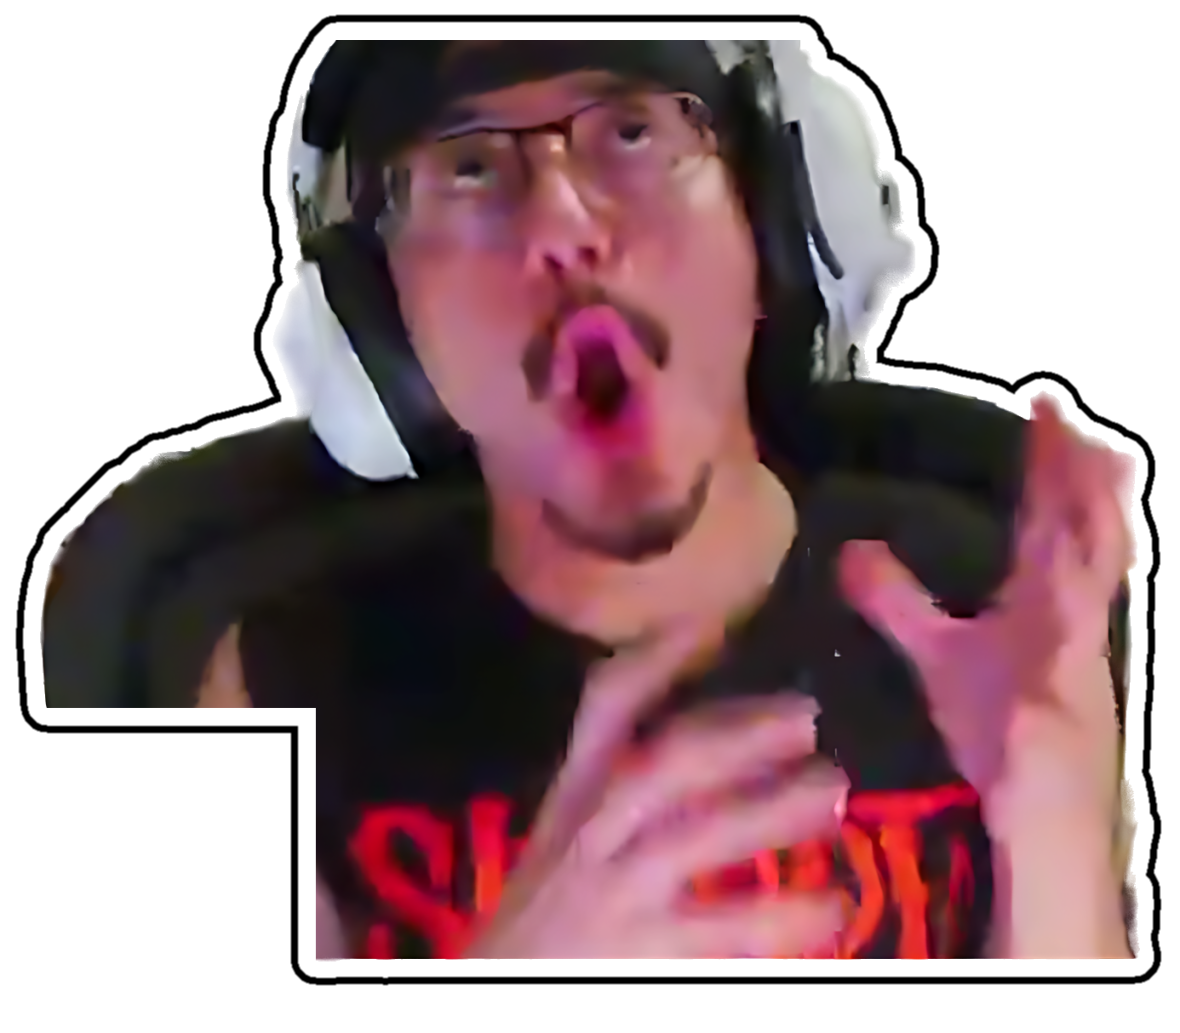
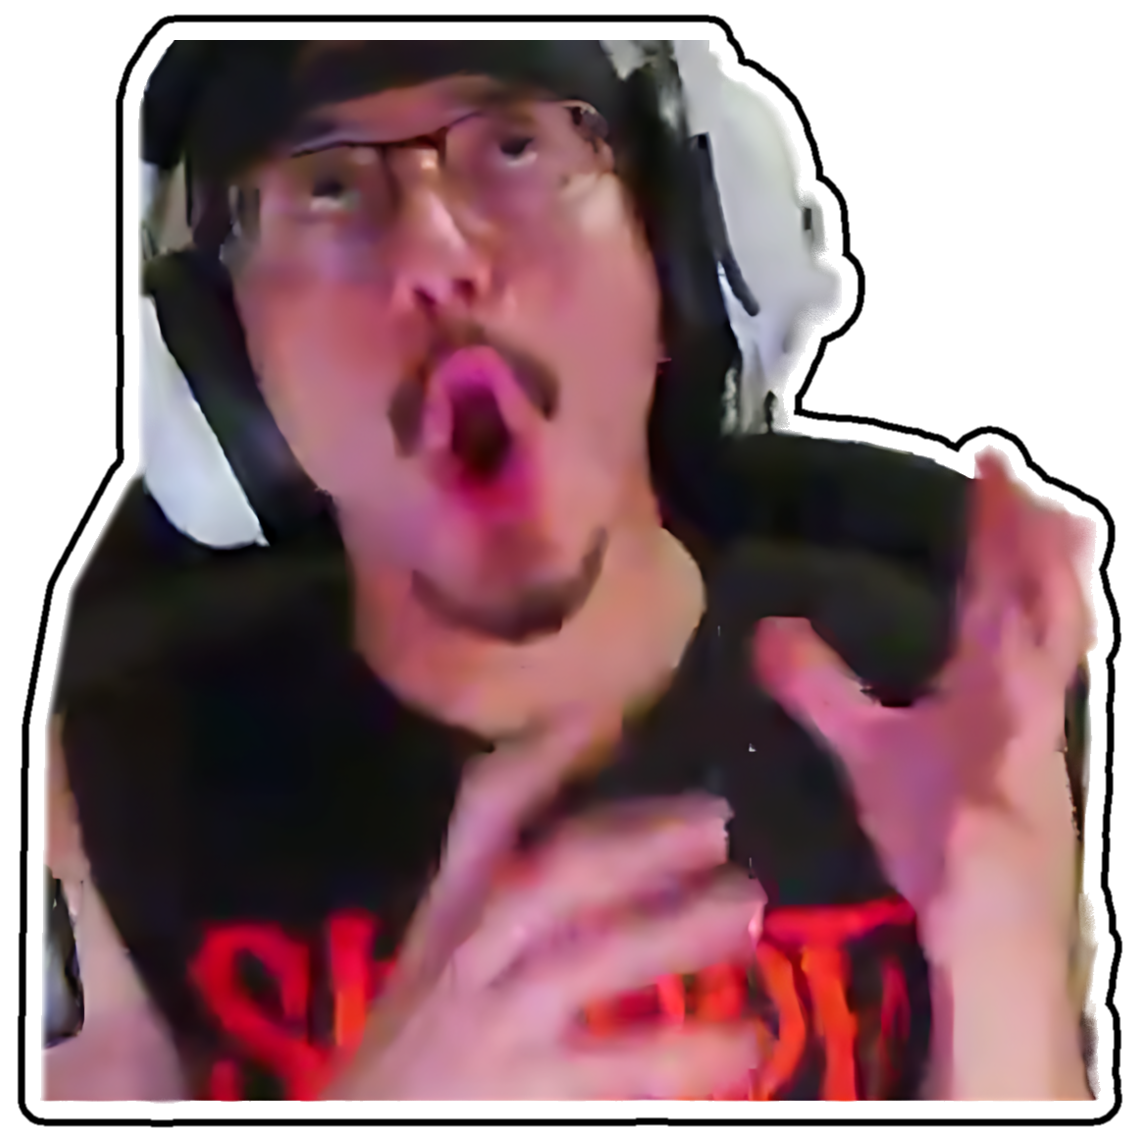
PUBG thumbnail: body-following cutout, TOP 10 up, centred name in pill
Claude-Session: https://claude.ai/code/session_01NSJvdmHsHoazKiuuGVQfMY

diff --git a/story/pubg_aaaa_thumb.html b/story/pubg_aaaa_thumb.html
@@ -49,10 +49,10 @@
 
   // ---- the scream: cut-out sticker bottom-left, whole head in frame, flat cut sits on the bottom edge
   { const mw = 720, mh = mw * me.height / me.width, off = document.createElement('canvas'); off.width = W; off.height = H; const o = off.getContext('2d');
-    o.save(); o.shadowColor = 'rgba(0,0,0,0.8)'; o.shadowBlur = 40; o.translate(-10, 1300); o.rotate(-0.03); o.drawImage(me, 0, 0, mw, mh); o.restore();
+    o.save(); o.shadowColor = 'rgba(0,0,0,0.8)'; o.shadowBlur = 40; o.translate(0, H - mh + 34); o.rotate(0); o.drawImage(me, 0, 0, mw, mh); o.restore();
     c.drawImage(off, 0, 0); }
   // "TOP 10" chip next to the scream (he placed top 10)
-  c.save(); c.translate(870, 1500); c.rotate(0.06); rr(-150, -64, 300, 128, 22); c.fillStyle = YEL; c.shadowColor = 'rgba(0,0,0,0.7)'; c.shadowBlur = 24; c.fill(); c.shadowBlur = 0; c.lineWidth = 7; c.strokeStyle = '#000'; c.stroke();
+  c.save(); c.translate(870, 1360); c.rotate(0.06); rr(-150, -64, 300, 128, 22); c.fillStyle = YEL; c.shadowColor = 'rgba(0,0,0,0.7)'; c.shadowBlur = 24; c.fill(); c.shadowBlur = 0; c.lineWidth = 7; c.strokeStyle = '#000'; c.stroke();
   c.font = 'italic ' + D(74); c.fillStyle = INK; c.textAlign = 'center'; c.textBaseline = 'middle'; c.fillText('TOP 10', 0, 6); c.restore();
 
   // ---- KICK + TWITCH pill, top, under the PUBG tag
@@ -60,8 +60,8 @@
   c.lineWidth = 6; g = c.createLinearGradient(px, 0, px + pw, 0); g.addColorStop(0, KICK); g.addColorStop(1, TWI); c.strokeStyle = g; c.stroke();
   c.save(); rr(px + 40, sy + 30, 130, 130, 28); c.fillStyle = '#000'; c.fill(); c.lineWidth = 4; c.strokeStyle = KICK; c.stroke(); c.drawImage(kick, px + 62, sy + 45, 86, 100); c.restore();
   c.save(); rr(px + 190, sy + 30, 130, 130, 28); c.fillStyle = TWI; c.fill(); c.drawImage(twitch, px + 214, sy + 43, 82, 104); c.restore();
-  c.font = G(800, 40); c.fillStyle = '#B4BAC2'; c.textAlign = 'left'; c.textBaseline = 'middle'; c.letterSpacing = '4px'; c.fillText('LIVE ON KICK + TWITCH', px + 355, sy + 62);
-  c.font = D(78); c.fillStyle = '#FFFFFF'; c.letterSpacing = '0px'; c.fillText('Thee_Kal_El', px + 352, sy + 128);
+  c.font = G(800, 40); c.fillStyle = '#B4BAC2'; c.textAlign = 'center'; c.textBaseline = 'middle'; c.letterSpacing = '4px'; const tcx = (px + 335 + px + pw - 30) / 2; c.fillText('LIVE ON KICK + TWITCH', tcx, sy + 62);
+  c.font = D(78); c.fillStyle = '#FFFFFF'; c.letterSpacing = '0px'; c.fillText('Thee_Kal_El', tcx, sy + 128);
   // PUBG tag, centred and big
   rr(375, 60, 330, 110, 20); c.fillStyle = '#F2A900'; c.shadowColor = 'rgba(0,0,0,0.7)'; c.shadowBlur = 20; c.fill(); c.shadowBlur = 0; c.lineWidth = 6; c.strokeStyle = '#000'; c.stroke();
   c.font = D(84); c.fillStyle = INK; c.textAlign = 'center'; c.textBaseline = 'middle'; c.letterSpacing = '2px'; c.fillText('PUBG', 540, 118);
